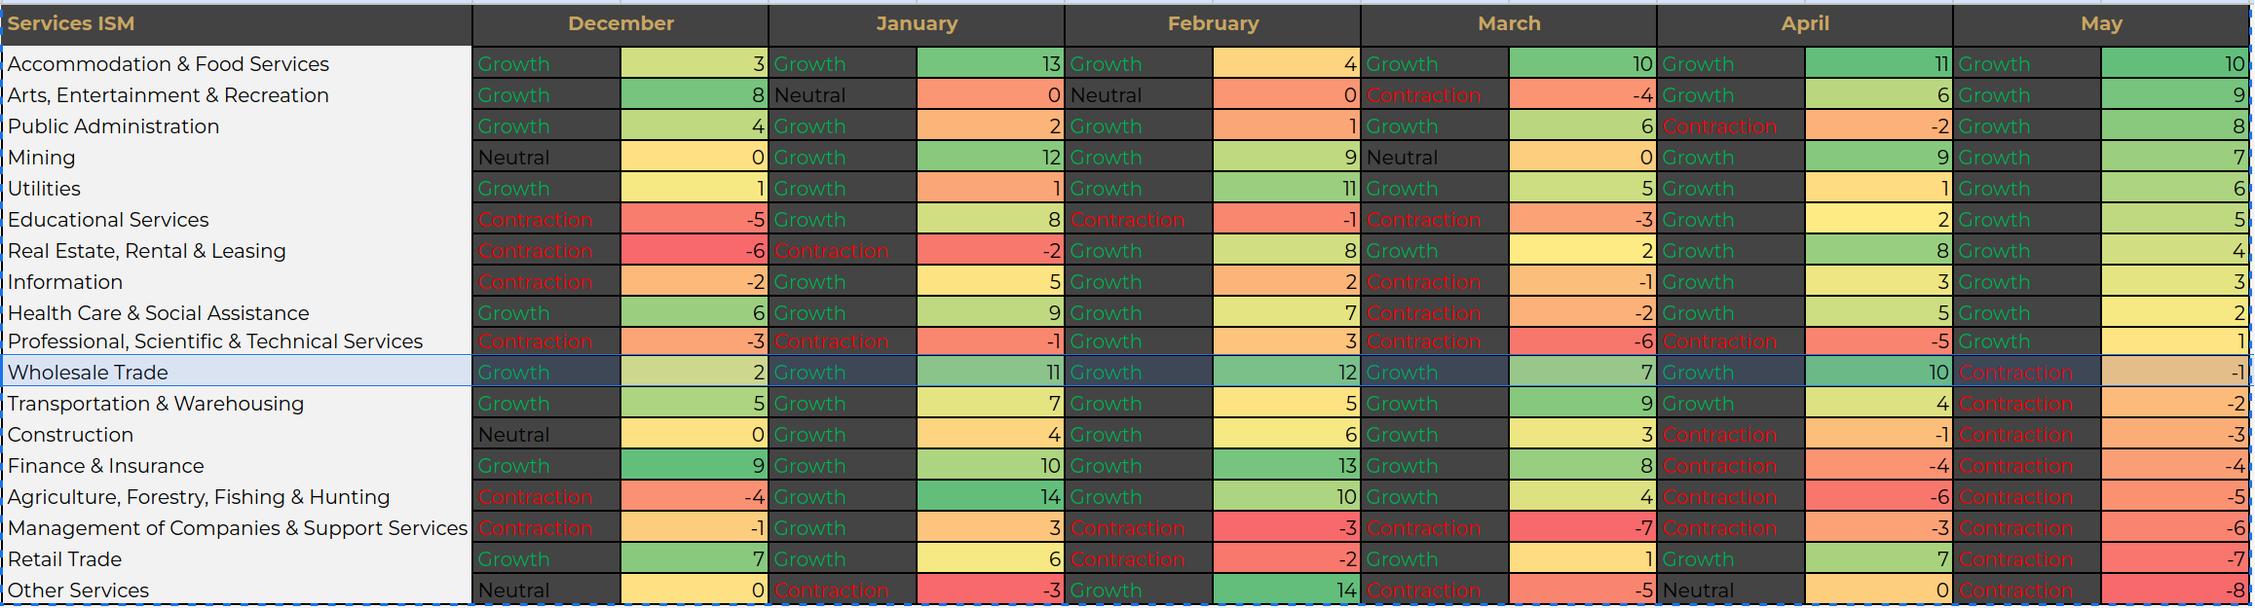
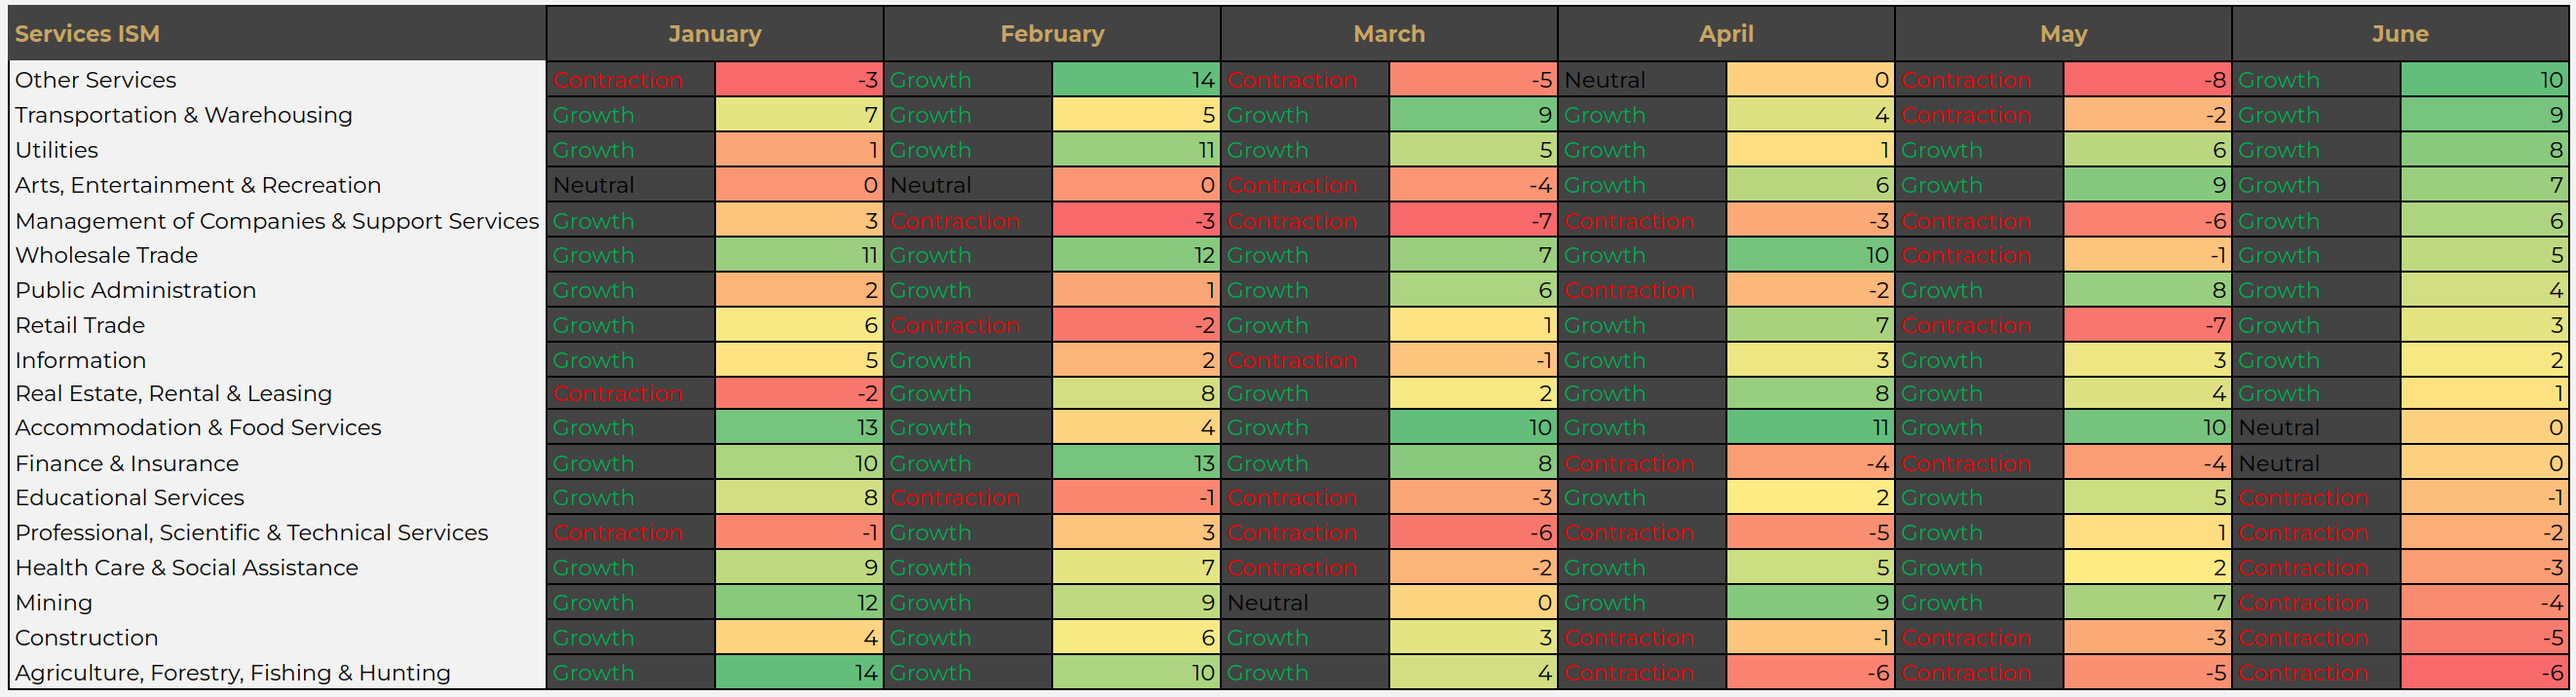
update srv pmi

diff --git a/crablox/hauls/ism_srv/__init__.py b/crablox/hauls/ism_srv/__init__.py
@@ -2,12 +2,12 @@ from fasthtml.common import Card, Div, Img, P
 
 from hauls.components import get_details, get_history, get_footer
 
-title = "ISM Srv · 49.9"
+title = "ISM Srv · 50.8"
 short = "Srv"
 style = "background-color: var(--pico-color-jade-500); border-color: var(--pico-color-jade-300);"
 caption = "ISM Services PMI"
 summary = "🏢 ISM Services: First Contraction Since June 2024 📉"
-details_file = "2025-05.md"
+details_file = "2025-06.md"
 
 
 def history():
@@ -42,7 +42,7 @@ def content():
             ),
             P(
                 Img(
-                    src="/static/ism-mfg-srv.png",
+                    src="/static/pmi-vs-gdp_srv.png",
                     cls="cbx_image",
                     alt="ISM Manufacturing vs Services",
                     title="ISM Manufacturing vs Services",

diff --git a/crablox/hauls/ism_srv/2025-06.md b/crablox/hauls/ism_srv/2025-06.md
@@ -1,0 +1,125 @@
+# 50.8
+
+## ISM Services PMI
+### Expanding
+for June 2025
+
+🏄♂ NMI Cross-Currents
+
+After that mixed manufacturing print we dissected earlier, the Services PMI has come through with something a bit more encouraging. We're back above 50 at 50.8 versus 49.9 in May, beating the 50.5 consensus and marking a proper bounce after just one month in contraction.
+
+This creates an interesting dynamic when you layer it against both the manufacturing struggles and that NFP surprise that shifted the Fed narrative.
+
+#### What Caught My Eye:
+Services PMI hit 50.8 (+0.9) whilst business activity absolutely surged to 54.2 from 50.0 - that's a 4.2 point jump that suggests genuine momentum rather than statistical noise. New orders telling an even better story at 51.3, up a massive 4.9 points from 46.4.
+
+But here's where it gets interesting against our earlier manufacturing discussion - employment in services dropped 3.5 points to 47.2, shifting into contraction territory. So whilst manufacturing employment was already weak, services companies are now joining the cautious hiring theme despite stronger demand.
+
+Inventories rebounded nicely to 52.7 (+3.0) and imports recovered to 51.7 (+3.5), suggesting companies are restocking after May's pullback. Export orders also improved to 51.1 (+2.6), which contrasts with manufacturing's export struggles.
+
+Prices remain sticky at 67.5, down just 1.2 points but still well elevated compared to that massive manufacturing price deceleration we saw earlier. This goods-services inflation split is becoming quite pronounced.
+
+#### Sector Performance:
+The breadth here is actually quite impressive - 10 sectors expanding versus 6 contracting. Other Services, Transportation & Warehousing, and Utilities leading the charge, whilst Educational Services, Professional & Technical, and Health Care are pulling back.
+
+The commentary continues to be dominated by tariff uncertainty, with Middle East tensions now entering the conversation (though no supply chain impacts so wouldn't worry here). Firms keep mentioning "slow growth and economic uncertainty" even amid this recovery.
+
+#### Trading Context:
+When you step back and consider this alongside the manufacturing data and that jobs surprise, we're seeing a genuine two-speed economy emerge. Services demand is recovering whilst manufacturing stays defensive. Employment across both sectors remains cautious despite demand improvements.
+
+This supports the narrative that businesses are managing through uncertainty rather than positioning for sustained growth. The NFP strength combined with this services resilience keeps the Fed in a tricky spot. They can't ignore labour market tightness, but they also can't dismiss the PMI prices indexes staying elevated.
+
+The services bounce provides some economic cushion, but the employment trends across both sectors suggest companies aren't convinced about sustainability. Meeting demand ,but stay lean on commitments.
+
+Quite the contrast to manufacturing's production recovery amid order declines. Services showing order recovery amid employment declines. Different sectors, same underlying caution about what's coming next.
+
+These sectoral differences are creating some interesting cross-currents for positioning. 📈
+
+#### The Key Numbers:
+- **Services PMI**                   <br> 50.8 vs 49.9 (+0.9) → Growing From Contracting
+- **Business Activity/ Production**  <br> 54.2 vs 50.0 (+4.2) → Growing From Unchanged
+- **New Orders**                     <br> 51.3 vs 46.4 (+4.9) → Growing From Contracting
+- **Employment**                     <br> 47.2 vs 50.7 (-3.5) → Contracting From Growing
+- **Supplier Deliveries**            <br> 50.3 vs 52.5 (-2.2) → Slowing Slower
+- **Inventories**                    <br> 52.7 vs 49.7 (+3.0) → Growing From Contracting
+- **Prices**                         <br> 67.5 vs 68.7 (-1.2) → Increasing Slower
+- **Backlog of Orders**              <br> 42.4 vs 43.4 (-1.0) → Contracting Faster
+- **New Export Orders**              <br> 51.1 vs 48.5 (+2.6) → Growing From Contracting
+- **Imports**                        <br> 51.7 vs 48.2 (+3.5) → Growing From Contracting
+- **Inventory Sentiment**            <br> 57.1 vs 62.9 (-5.8) → Too High Slower
+
+### Industry Performance
+
+#### Growing Industries:
+1. Other Services
+1. Transportation & Warehousing
+1. Utilities
+1. Arts, Entertainment & Recreation
+1. Management of Companies & Support Services
+1. Wholesale Trade
+1. Public Administration
+1. Retail Trade
+1. Information
+1. Real Estate, Rental & Leasing
+
+#### Contracting Industries:
+1. Agriculture, Forestry, Fishing & Hunting
+1. Construction
+1. Mining
+1. Health Care & Social Assistance
+1. Professional, Scientific & Technical Services
+1. Educational Services
+
+#### Industry Heatmap
+
+<style>
+.heatmap-table {
+    border-collapse: collapse;
+    width: auto;
+    border: 1px solid var(--pico-muted-border-color);
+}
+.heatmap-table th {
+    background-color: var(--pico-muted-color);
+    color: var(--pico-primary-inverse);
+}
+.growing-cell {
+    color: black;
+    background-color: rgb(var(--growing-r), 255, 0);
+}
+.contracting-cell {
+    color: black;
+    background-color: rgb(255, var(--contracting-g), 0);
+}
+.heatmap-table tr:hover .growing-cell {
+    filter: brightness(1.1);
+}
+.heatmap-table tr:hover .contracting-cell {
+    filter: brightness(1.1);
+}
+.heatmap-table td {
+    transition: border-color 0.2s ease;
+}
+.heatmap-table tr:hover td {
+    border: 1px solid var(--pico-primary);
+}
+</style>
+
+<table class='heatmap-table'>
+<tr><th>Industry</th><th>Movement</th></tr>
+<tr><td class='industry'>Other Services</td><td class='growing-cell' style='--growing-r: 127'>Grow 10</td></tr>
+<tr><td class='industry'>Transportation & Warehousing</td><td class='growing-cell' style='--growing-r: 140'>Grow 9</td></tr>
+<tr><td class='industry'>Utilities</td><td class='growing-cell' style='--growing-r: 153'>Grow 8</td></tr>
+<tr><td class='industry'>Arts, Entertainment & Recreation</td><td class='growing-cell' style='--growing-r: 165'>Grow 7</td></tr>
+<tr><td class='industry'>Management of Companies & Support Services</td><td class='growing-cell' style='--growing-r: 178'>Grow 6</td></tr>
+<tr><td class='industry'>Wholesale Trade</td><td class='growing-cell' style='--growing-r: 191'>Grow 5</td></tr>
+<tr><td class='industry'>Public Administration</td><td class='growing-cell' style='--growing-r: 204'>Grow 4</td></tr>
+<tr><td class='industry'>Retail Trade</td><td class='growing-cell' style='--growing-r: 216'>Grow 3</td></tr>
+<tr><td class='industry'>Information</td><td class='growing-cell' style='--growing-r: 229'>Grow 2</td></tr>
+<tr><td class='industry'>Real Estate, Rental & Leasing</td><td class='growing-cell' style='--growing-r: 242'>Grow 1</td></tr>
+<tr><td class='industry'>Educational Services</td><td class='contracting-cell' style='--contracting-g: 242'>Contract -1</td></tr>
+<tr><td class='industry'>Professional, Scientific & Technical Services</td><td class='contracting-cell' style='--contracting-g: 229'>Contract -2</td></tr>
+<tr><td class='industry'>Health Care & Social Assistance</td><td class='contracting-cell' style='--contracting-g: 216'>Contract -3</td></tr>
+<tr><td class='industry'>Mining</td><td class='contracting-cell' style='--contracting-g: 204'>Contract -4</td></tr>
+<tr><td class='industry'>Construction</td><td class='contracting-cell' style='--contracting-g: 191'>Contract -5</td></tr>
+<tr><td class='industry'>Agriculture, Forestry, Fishing & Hunting</td><td class='contracting-cell' style='--contracting-g: 178'>Contract -6</td></tr>
+</table>
